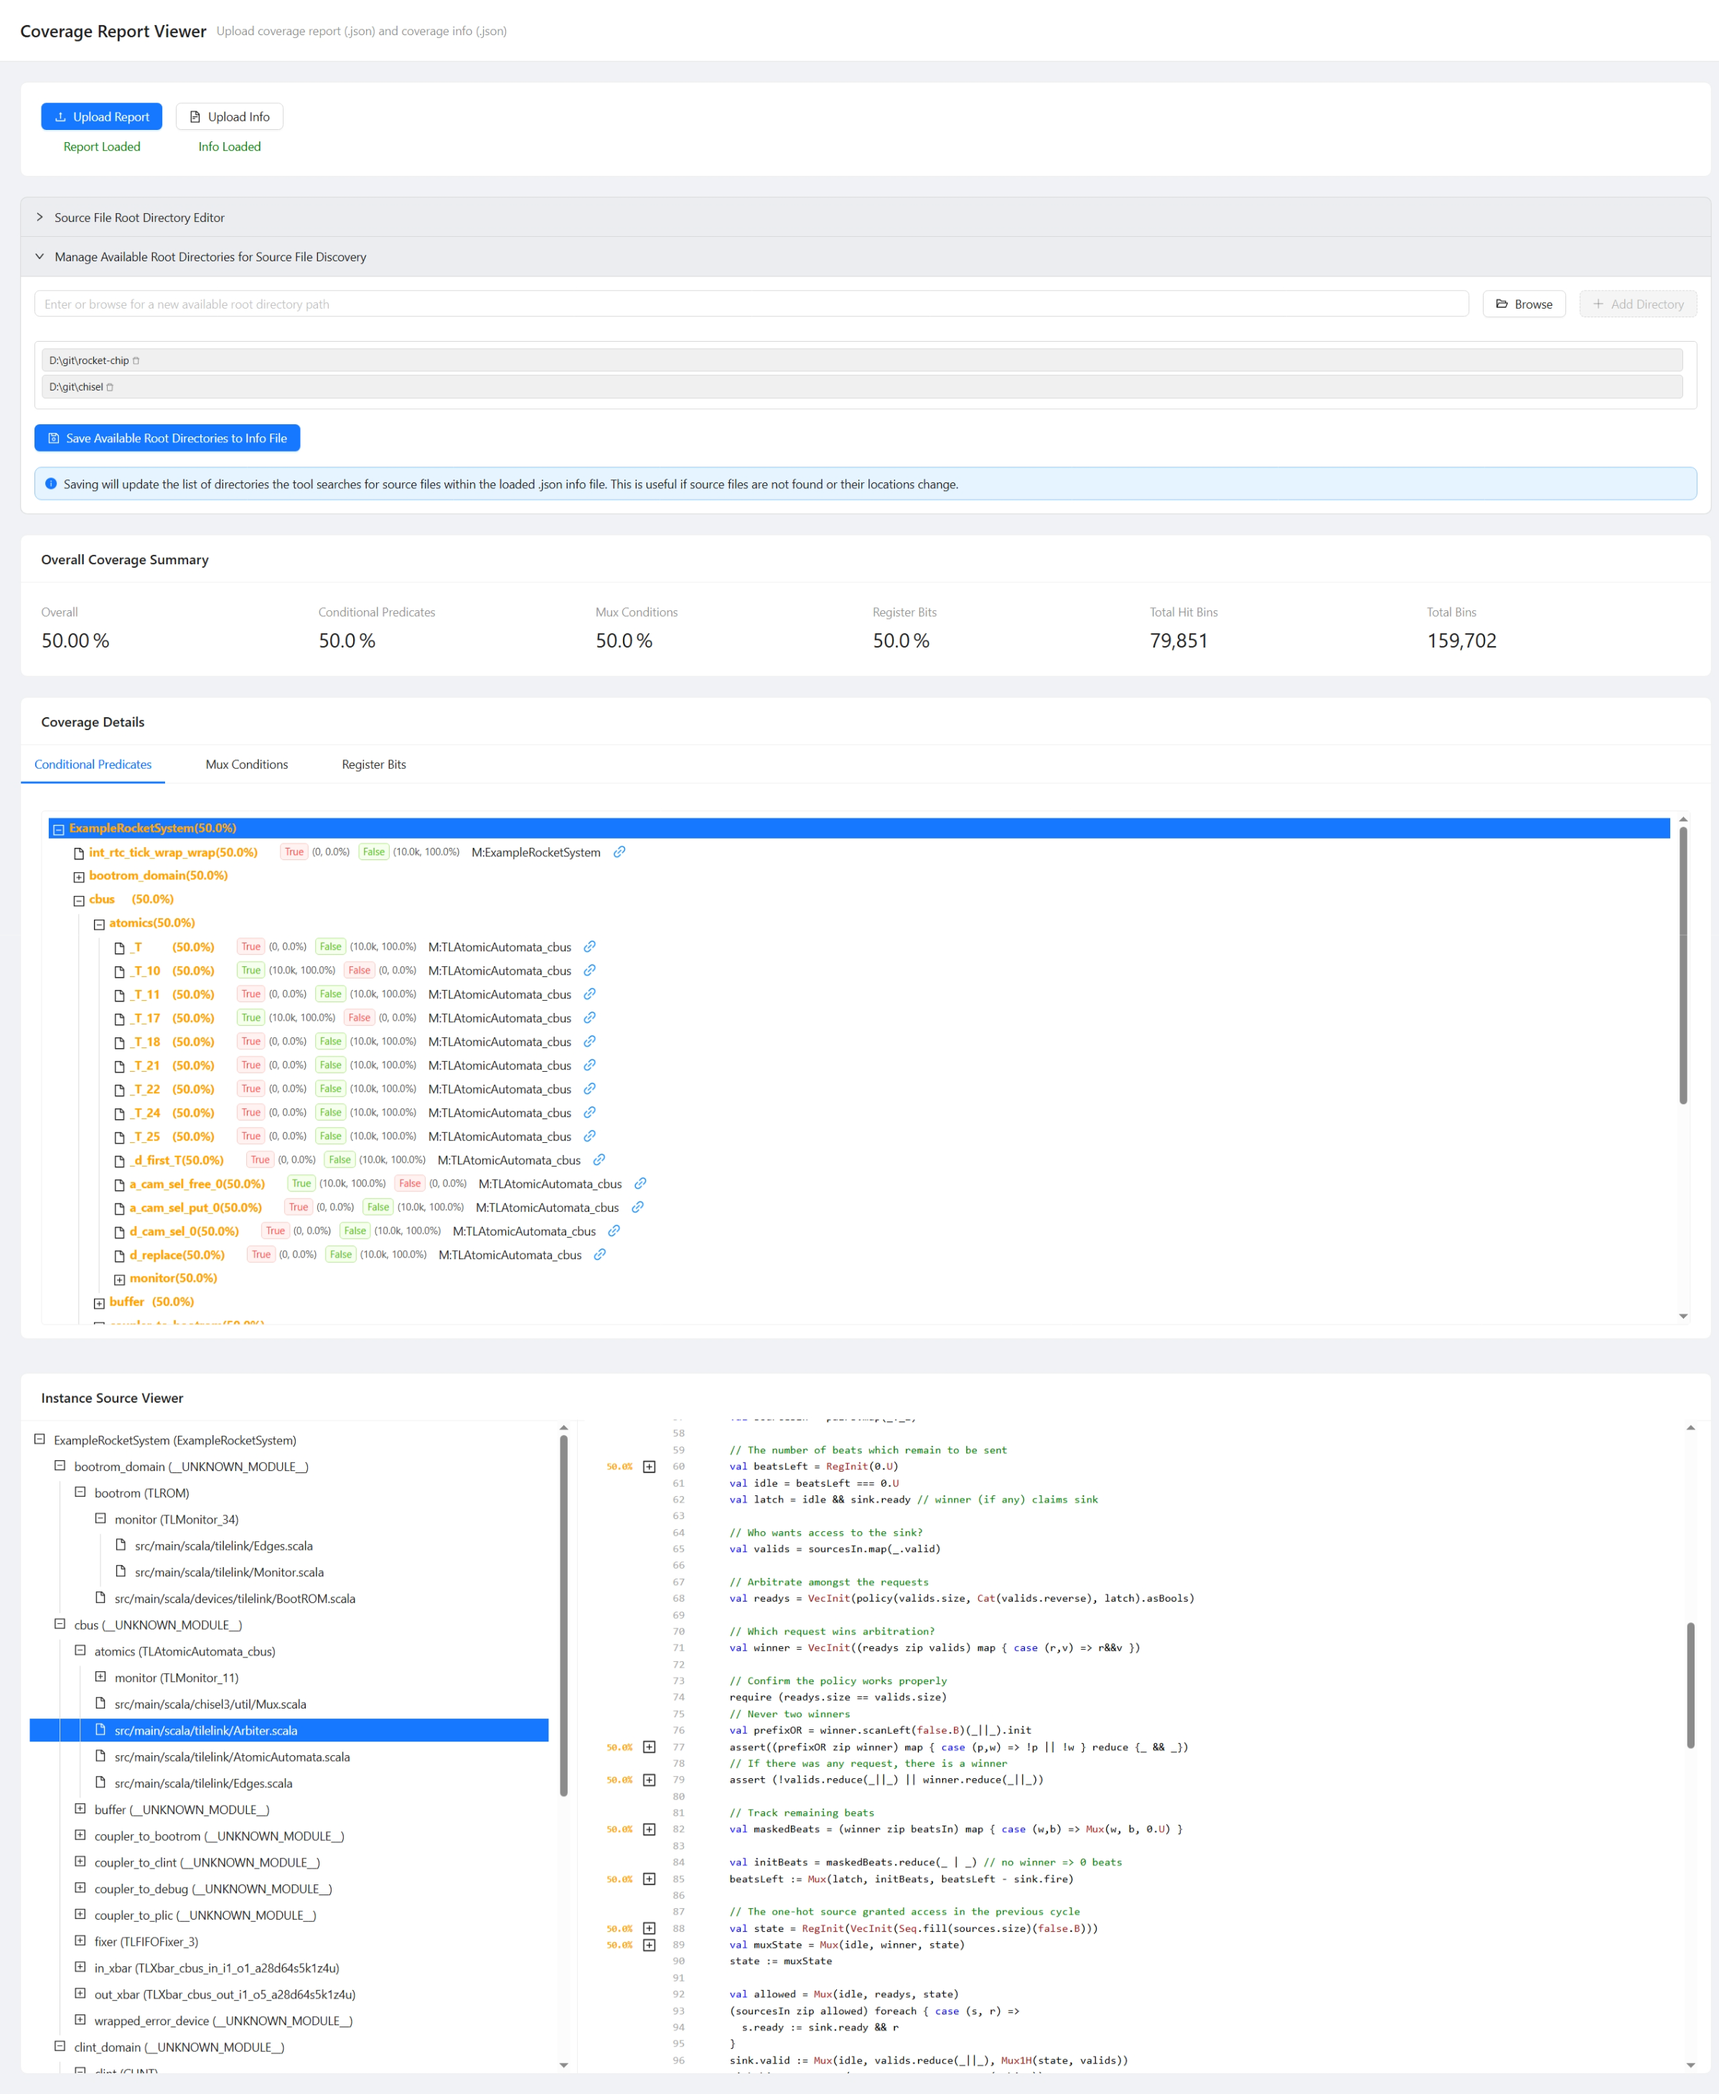
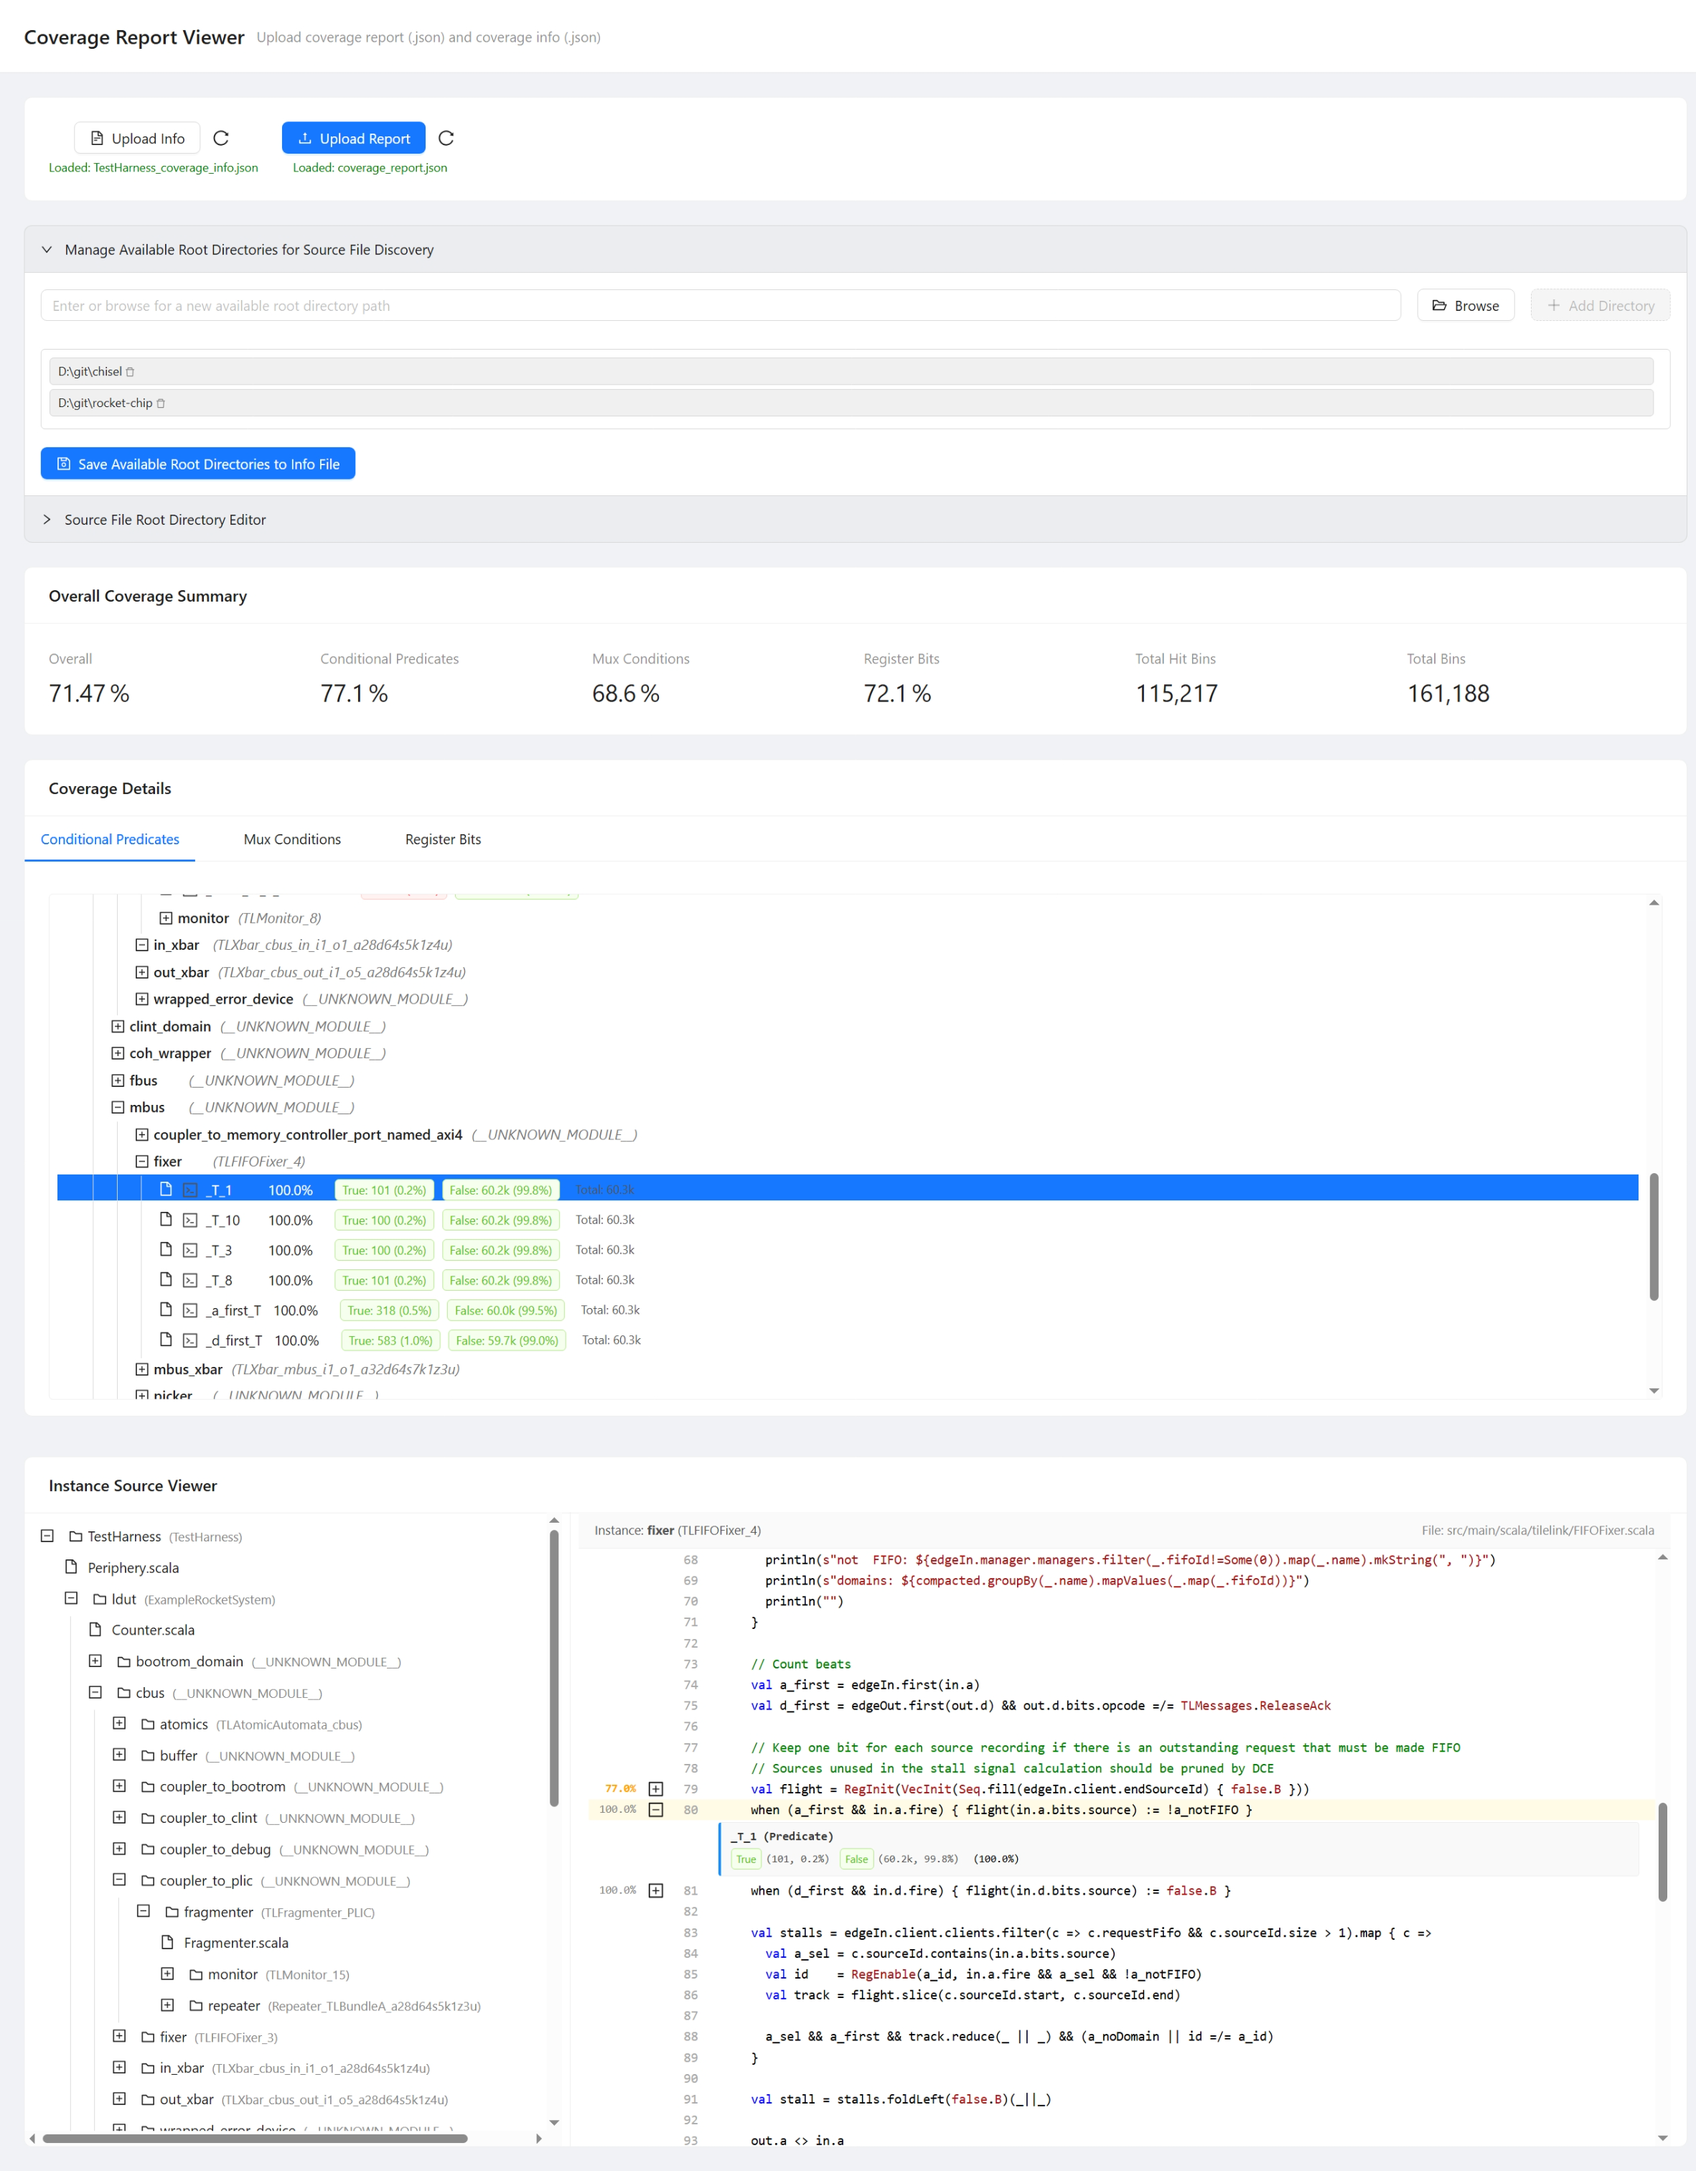
[Update] update readme about rocket chip emulator.

diff --git a/readme.md b/readme.md
@@ -49,74 +49,76 @@
 以下是 `src/main/scala/main.scala` 中的示例，展示了如何使用 `CoverageUtil` 处理多个模块：
 
 ```scala
-// filepath: src/main/scala/main.scala
-package firrtl.ir
+package main
 
 import circt.stage.CustomStage
 import file_util.FileUtil
 import java.io.File
 import circt.stage.ChiselStage
 import chisel3.RawModule
-import modules.WaveformGenerator // 导入你的 Chisel 模块
-import modules.UART_rx         // 导入你的 Chisel 模块
-import modules.UART_tx         // 导入你的 Chisel 模块
+import modules.WaveformGenerator
+import modules.UART_rx
+import modules.UART_tx
+import chisel3.Reg
+import modules.RegModule
+import modules.ComplexExample
+import firrtl.ir.CoverageTool
+import org.chipsalliance.cde.config.{Parameters, Config, Field}
+import freechips.rocketchip.rocket._
+import freechips.rocketchip.rocket.ALU._
+import freechips.rocketchip.util._
+import _root_.circt.stage.ChiselStage
+import freechips.rocketchip.system.DefaultConfig
+import freechips.rocketchip.tile.{RocketTileParams, TileKey, LookupByHartIdImpl}
+import freechips.rocketchip.tile.RocketTile
+import org.chipsalliance.diplomacy.lazymodule.LazyModule
+import freechips.rocketchip.system.ExampleRocketSystem
+import freechips.rocketchip.system.TestHarness
 
-object ExampleMain extends App {
-  // 定义所有输出的基础目录
-  val baseOutputDir = "output_generated"
+object Main {
+  def main(args: Array[String]): Unit = {
+    implicit val p: Parameters = new DefaultConfig()
+    val baseOutputDir = "output_generated"
 
-  // 定义要处理的模块列表
-  // 每个元素是一个元组: (模块生成器函数, 输出子目录名)
-  val modulesToProcess: Seq[(() => RawModule, String)] = Seq(
-    (
-      () => new WaveformGenerator,
-      "waveform_generator"
-    ),
-    (
-      () => new UART_rx(),
-      "uart_rx"
-    ),
-    (
-      () => new UART_tx(),
-      "uart_tx"
-    ),
-    (() => new RegModule(), "reg_module"),
-    (() => new ComplexExample(), "complex_example"),
-    (() => new ALU(), "rocket_alu"),
-    (() => new MulDiv(MulDivParams(), width = 64), "rocket_muldiv"),
-    (
-      () => {
-        val ldut = LazyModule(new ExampleRocketSystem)
-        ldut.module
-      },
-      "example_rocket_system"
+    val modulesToProcess: Seq[(() => RawModule, String)] = Seq(
+      (
+        () => new WaveformGenerator,
+        "waveform_generator"
+      ),
+      (
+        () => new UART_rx(),
+        "uart_rx"
+      ),
+      (
+        () => new UART_tx(),
+        "uart_tx"
+      ),
+      (() => new RegModule(), "reg_module"),
+      (() => new ComplexExample(), "complex_example"),
+      // RocketChip
+      (
+        () => new TestHarness(),
+        "rocket_test_harness"
+      )
     )
-    // 可以继续添加更多模块...
-  )
 
-  // 遍历列表，处理每个模块
-  modulesToProcess.foreach { case (moduleGenerator, outputSubDir) =>
-    // 构建完整的输出路径
-    val outputDir = s"$baseOutputDir/$outputSubDir"
-    println(s"--- 开始处理模块: ($outputDir) ---") // 添加日志区分模块
+    modulesToProcess.foreach { case (moduleGenerator, outputSubDir) =>
+      val outputDir = s"$baseOutputDir/$outputSubDir"
+      CoverageTool.processModule(
+        moduleGenerator = moduleGenerator,
+        outputDir = outputDir,
+        enableDevOutput = true
+      )
+    }
+    println("所有模块处理完毕.")
 
-    // 调用核心处理函数
-    CoverageUtil.processModule(
-      moduleGenerator = moduleGenerator, // 传递模块生成器
-      outputDir = outputDir,             // 传递输出目录
-      enableDevOutput = true             // 启用开发调试文件生成
-      // firtoolOpts = Array("-disable-all-randomization", "-strip-debug-info") // 可以自定义 firtool 选项
-    )
-    println(s"--- 完成处理模块: ($outputDir) ---\n") // 添加日志区分模块
   }
-  println("所有模块处理完毕.")
 }
-
 ```
 
 ## 覆盖率结果分析工具 (Tauri + Vue3)
 
-项目包含一个简单的桌面应用程序 (`analysis_app` 目录)，用于可视化`coverage_info.json` 和 `coverage_report.json` 文件中的覆盖率结果。
+项目包含一个简单的桌面应用程序 (`analysis_app` 目录)，用于可视化`coverage_info.json` 和 `coverage_report.json` 文件中的覆盖率结果, 可以以实例树的层次查看所有的覆盖点和源代码, 快速导航和分析覆盖率问题。
 
 ### 运行
 
@@ -127,3 +129,24 @@ object ExampleMain extends App {
 5.  应用程序启动后，上传你的`coverage_info.json` 和 `coverage_report.json` 文件即可查看。
 
 ![app_shot.png](assets/app-shot.png)
+
+## Rocket Chip集成
+通过将 `CoverageTool` 集成到 Rocket Chip 的 `TestHarness` 中，可以实现对整个 SoC 设计的覆盖率分析, 并且使用elf作为测试激励。
+
+`output_generated/rocket_test_harness/emulator` 目录下包含了一个继承了chisel coverage tool完整的 Rocket chip TestHarness emulator的源代码、CmakeLists文件和一个在ubuntu24 wsl2上构建的emulator程序。
+
+emulator是一个命令行工具:
+
+```text
+Usage: ./emulator [EMULATOR OPTION]... [VERILOG PLUSARG]... [HOST OPTION]... BINARY [TARGET OPTION]...
+Run a BINARY on the Rocket Chip emulator.
+
+Mandatory arguments to long options are mandatory for short options too.
+
+EMULATOR OPTIONS
+  -c, --cycle-count        Print the cycle count before exiting
+       +cycle-count
+......
+```
+
+同时运行elf结束后, 将会打印覆盖率信息, 并导出`coverage_report.json`文件来用于分析使用。
